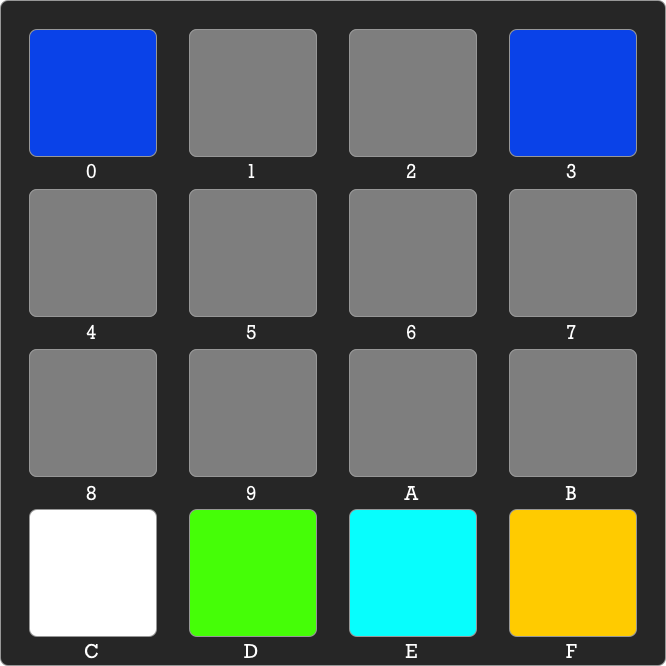
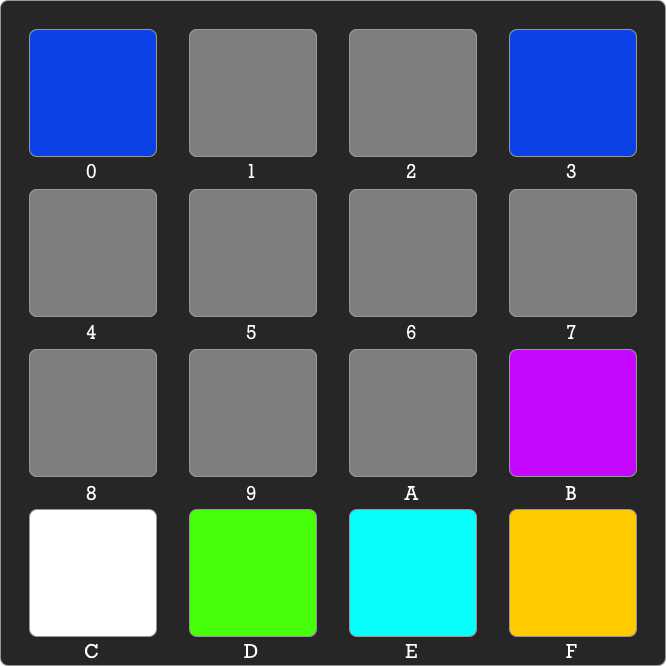
Add code loading info

Changed region(s): [[0.7508, 0.5105, 0.961, 0.7207]]

diff --git a/README.md b/README.md
@@ -1,4 +1,4 @@
-# e6809 #
+# e6809
 
 An emulation of the Motorola 6809e 8-bit microprocessor designed to run on the a RP2040 microcontroller board, such as the Raspberry Pi Pico.
 
@@ -32,7 +32,7 @@ The Monitor code is menu driven. It provides code entry, program execution and m
 * `E` — Enter a byte at the current address.
 * `F` — Enter the current address.
 
-When you run code, whether without breaks or in single-step mode, the Program Counter is set to the current address. This can be set by entering it directly (hit the yellow key) or by stepping to the required address using the blue keys.
+When you run code, whether without breaks or in single-step mode, the Program Counter is set to the current address. This can be set by entering it directly (hit the yellow key) or by stepping to the required address using the upper blue keys.
 
 ### Confirm Menu
 
@@ -43,9 +43,9 @@ When you run code, whether without breaks or in single-step mode, the Program Co
 * `E` — Flip between address/value and register views.
 * `F` — Accept the current byte or address and return to previous menu.
 
-The orange button (shown above) is only illuminated when you have entered a byte value. Tap it to go straight to byte-entry mode, or hit green to store the byte and return to the main menu.
+The orange button (shown above) is only illuminated when you have entered a byte value. Tap it to store the byte and continue in byte-entry mode, or hit green to store the byte and return to the main menu. Hitting red ignores the entered byte value.
 
-The magenta button (not shown above) is only illuminated when you have paused running code. Tap it to change the display mode (see next section).
+The magenta button (not shown above; also key `E`) is only illuminated when you have paused running code. Tap it to change the display mode (see next section).
 
 ### Single-step Menu
 
@@ -54,7 +54,7 @@ The magenta button (not shown above) is only illuminated when you have paused ru
 * `0` — Step through memory, down.
 * `3` — Step through memory, up.
 * `D` — Reset display to current address.
-* `E` — Flip between address/value and register views.
+* `E` — MOve between address/value and register views.
 * `F` — Process instruction at current address.
 
 Using the memory step keys can take you away from the address referenced by the 6809e’s Program Counter register. Hit the orange button to align the display with the PC.
@@ -62,28 +62,46 @@ Using the memory step keys can take you away from the address referenced by the 
 Pressing the magenta button cycles the display through the following outputs:
 
 * Current address (PC register) and that memory location’s contents.
-* The Condition Code register bits as a binary value.
+* The Condition Code register bits (E, F, H, I, N, Z, V and C) as a binary value.
 * The A, B and Direct Page registers in that order.
 * The X and Y registers.
 * The S and U registers.
 
 ### The Run Menu
 
-When you are running code without automatically pausing between instructions, the keypad will glow white. Tap any key to halt the code. The keys will cease to glow. If the keys cease to glow without a key press, then the code has returned. Tap any key to return to the main menu.
+When you are running code without automatically pausing between instructions, the keypad will glow white. Tap any key to halt the code. The keys will cease to glow and the [Confirm Menu](#confirm-menu) will be shown. If the keys cease to glow without a key press, then the code has returned.
 
 ### Loading Code
 
-Use the `loader.py` utility in `/scripts` to send binary program data to the monitor.
+Use the `loader.py` utility in `/scripts` to send binary program data in the form of `.rom` files to the monitor. To upload a file:
 
 1. Press `B` (magenta) at the main menu to prepare the board for loading.
-2. Run `python loader.py -s <start_address> -d <device_name> <rom_file>`.
+2. On your computer, run `python loader.py -s <start_address> -d <device_name> <rom_file>`.
 
-`-s` specifies the 16-bit address at which the program will be stored. `-d` specifies the monitor board’s device file, eg. `/dev/cu.usbmodem1414301`, under macOS or Linux.
+`-s` specifies the 16-bit address at which the program will be stored. `-d` specifies the monitor board’s device file under macOS or Linux. For example:
 
-The Pico LED will flash five times to signal a load error, if one occurred.
+```shell
+python loader.py -s 0x8000 -d /dev/cu.usbmodem1414301 d32.rom
+```
 
-You can use Spasm to generate assembled `.rom` files.
+The Pico LED will flash five times to signal a load error, if one occurred. There is a 30s timeout after which the loading will stop and the main menu will be accessible again.
 
+You can use [Spasm](https://github.com/smittytone/Spasm) to generate assembled `.rom` files:
+
+```shell
+spasm.py -o test.rom test.asm
+```
+
+## To Do
+
+In no particular order...
+
+* Add Motorola PIA chip support.
+* Add 6809e start-up sequence when Monitor Board not present.
+* Clock-precise (1MHz) processing.
+* Support alterative memory maps, not just a flat 64KB space.
+* Support 64KB memory pages.
+* Add downloading of RAM contents via USB.
 
 ## Copyright
 
